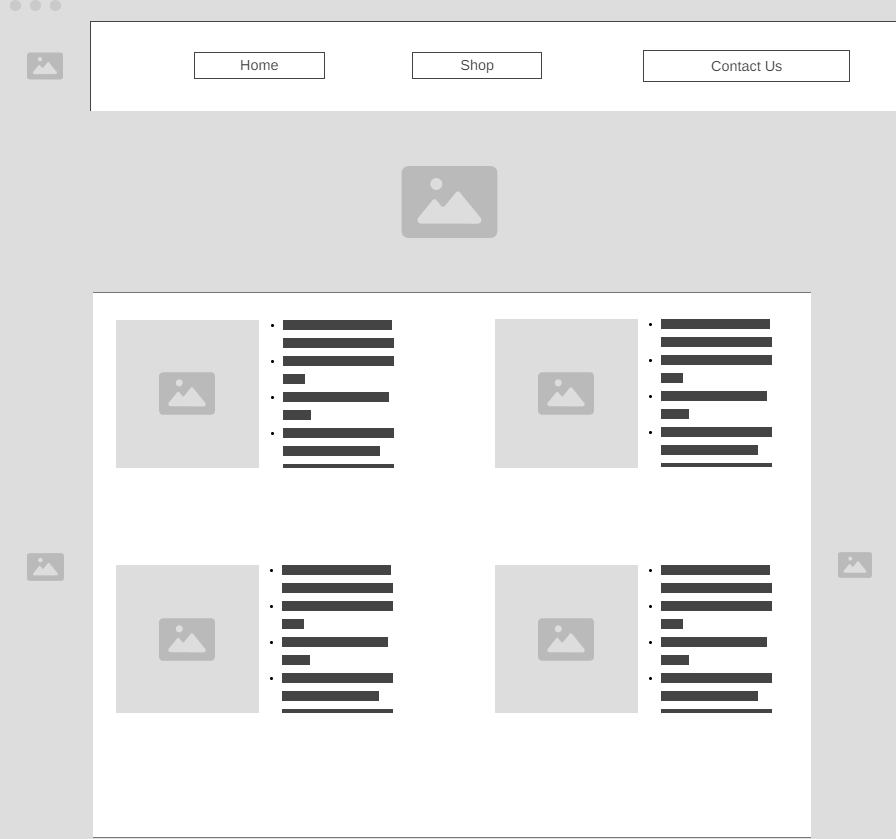
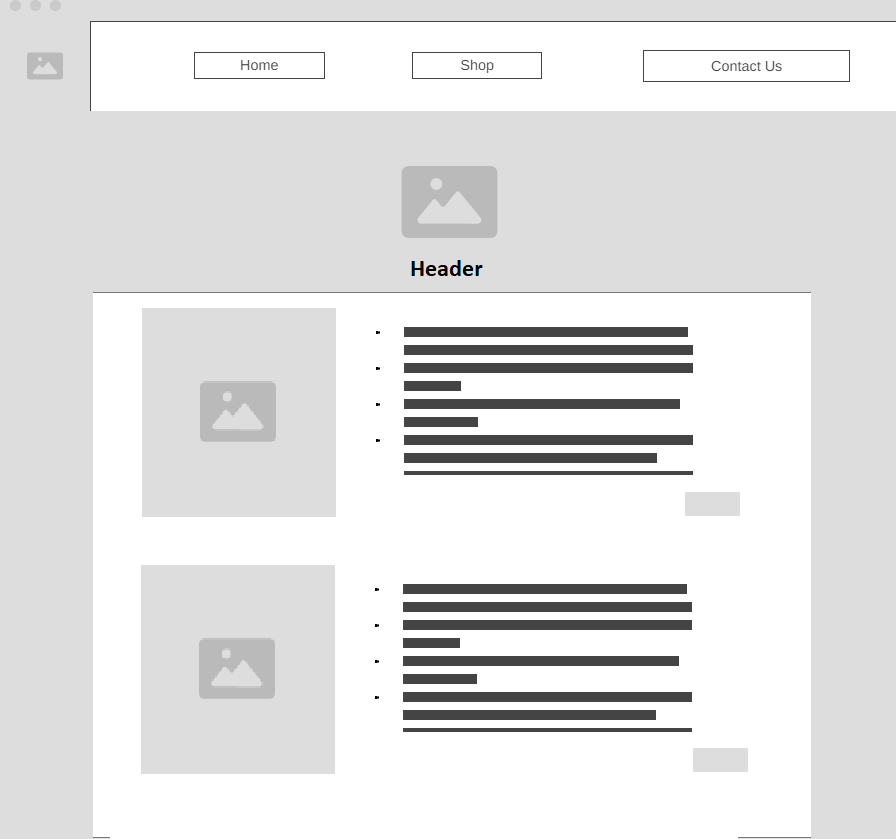
Site Plan And main Plan Fixed

diff --git a/KarV_Plan_Site/site-plan.html b/KarV_Plan_Site/site-plan.html
@@ -31,8 +31,9 @@
 
 			<h3>Dynamic elements</h3>
 			<p>I will be making this very phone accessible so that customers can order straight from a phone and the site is clean on any device.
-				Contact link will bring up a popup form to contact.
-				clicking on any picture will bring up a pop up form of Qty, custom name, and total price.
+				The Menu will be collapsable on the phone and the menu button will dissapear on normal site view.
+				I will be making a "Checkout Form for each Item that is listed so you can see how much it would cost etc to customize it
+				and if you want a different quantity as well."
 			</p>
 			<!-- change this -->
 
@@ -117,14 +118,40 @@
 			Welcome to KarV - Laser Engraving, where precision meets artistry. At KarV, we specialize in high-quality laser engraving on a variety of materials, including wood and metal.
 				Our state-of-the-art laser technology allows us to create intricate designs and personalized engravings that elevate the ordinary to extraordinary. Whether you're looking for unique custom gifts, 
 				bespoke business merchandise, or stunning decorative pieces, our expert craftsmanship ensures a product that stands out. Explore our portfolio and discover how KarV can bring your vision to life with precision and elegance.
-				<br><br>
-				Testimonials, About Us<br>
+				<br>
+				KarV began as a dream shared by two friends, both 25 years old and based in Nampa, Idaho. While studying web development together, they often talked about starting a small business on the side. This dream quickly grew into a passion project as they discovered the joy of laser engraving. What started as a hobby turned into something they both fell in love with, combining their technical skills and creative visions. Today, KarV is the result of their dedication, creativity, and the strong bond between two friends. Every piece they create is a testament to their commitment to quality and artistry. At KarV, we pour our hearts into every project, bringing unique, personalized engravings to life.
+				<br>
+				Testimonials: I was honestly just scrolling through Instagram and saw this new company and decided that I would give them a shot, especially since my anniversary was coming up next month. I was incredibly impressed with the workmanship and quality of this work! Everything was smooth, no rough edges, they got all of the custom names right, and my wife is absolutely in love with it. 10/10 Guys, good job! - David H<br>
+				I recently purchased a custom engraved wooden plaque from KarV, and I couldn't be happier with the result. The craftsmanship is outstanding, and the attention to detail is incredible. It made the perfect gift for my friend's wedding. Highly recommend! - Sarah M.<br>
+				I ordered a custom laser-engraved metal sign from KarV for my home office, and it exceeded all my expectations. The detail and precision of the engraving are fantastic, and it adds a really professional touch to my workspace. The customer service was excellent,
+				and they made sure I was happy with every step of the process. I will definitely be returning for more custom items in the future!" - Emily R.
+
+				
+				<br>
 				<br>
 			<p></p>
 			<img src="mainideapic1.png" alt="Couple Wedding Rings Set In Wood" />
 			<img src="mainideapic2.png" alt="Couple Wedding Rings Set In Wood" />
 			<h3>[Shopping Page]</h3>
-			<p>Prices, Locations, Availability, Custom Able (yes/no), colors</p>
+			<p>Content: Prices, Locations, Availability, Custom Able (yes/no), colors<br>
+			Elegant Design: The notebook features a beautifully embossed Celtic knot design, symbolizing eternity and interconnectedness, adding a touch of sophistication to your stationery collection.<br>
+			Premium Quality: Crafted from high-grade leather, this set promises longevity and a rich, tactile experience that only improves with age.
+			Versatile Accessories: The set includes a leather cover for your notebook, a pen holder, and additional pouches, ensuring all your writing essentials are stylishly organized.<br>
+			Elastic Closure: The notebook comes with a sturdy elastic band to keep your notes secure, making it perfect for travel and everyday use.<br>
+			Elegant Design: The key chain features a sleek and stylish design that complements any set of keys.
+			Premium Quality Leather: Made from high-grade leather, ensuring durability and a luxurious feel.
+			Durable Metal Ring: Equipped with a sturdy metal ring to securely hold your keys.
+			Compact and Functional: Designed for easy carrying and practical use.<br>
+			Intricate Engraved Design: Features beautiful engravings that add a personal touch.<
+            High-Quality Wood: Made from premium wood, ensuring durability and elegance.<
+            Elegant and Rustic: Combines rustic charm with sophisticated design.<
+            Perfect for Gifting: An ideal gift for weddings, anniversaries, or special occasions.<br>
+			>High-Quality Stainless Steel: Ensures durability and a sleek appearance.
+            Insulated: Keeps beverages cold or hot for extended periods.
+            Sleek and Modern Design: Combines functionality with a stylish look.
+            Durable and Long-Lasting: Built to withstand daily use.
+                    
+		</p>
 			<img src="mainideapic1.png" alt="Couple Wedding Rings Set In Wood" />
 			<img src="mainideapic2.png" alt="Custom Leather/Wood Keychains" />
 			<img src="mainideapic3.png" alt="Custom Metal Mugs" />
@@ -137,7 +164,9 @@
 
 			<h3>Home</h3>
 			<p>
-				The two "images on the sides of the main body will serve as background images, very plain, same background as regular background, maybe a log going all the way up."
+				Drop down for Celular Devices (Menu).
+				Testimonials Changed For Celular Devices
+				Grid Changed for Celular Devices
 			</p>
 			<img src="wireframe_home.png" alt="home page wireframe" />
 

diff --git a/KarV_Plan_Site/site-plan.css b/KarV_Plan_Site/site-plan.css
@@ -18,11 +18,11 @@ Fonts are separated by a | */
   --headline-color-on-white: var(
     --primary-color
   ); /* headlines on a white background */
-  --headline-color-on-color: white; /* headlines on a colored background */
+  --headline-color-on-color: var(--accent1-color); /* headlines on a colored background */
   --paragraph-color-on-white: var(
     --primary-color
   ); /* paragraph text on a white background */
-  --paragraph-color-on-color: white; /* paragraph text on a colored background */
+  --paragraph-color-on-color: var(--accent1-color); /* paragraph text on a colored background */
   --paragraph-background-color: var(--primary-color);
   --nav-link-color: var(--accent1-color);
   --nav-background-color: var(--secondary-color);
